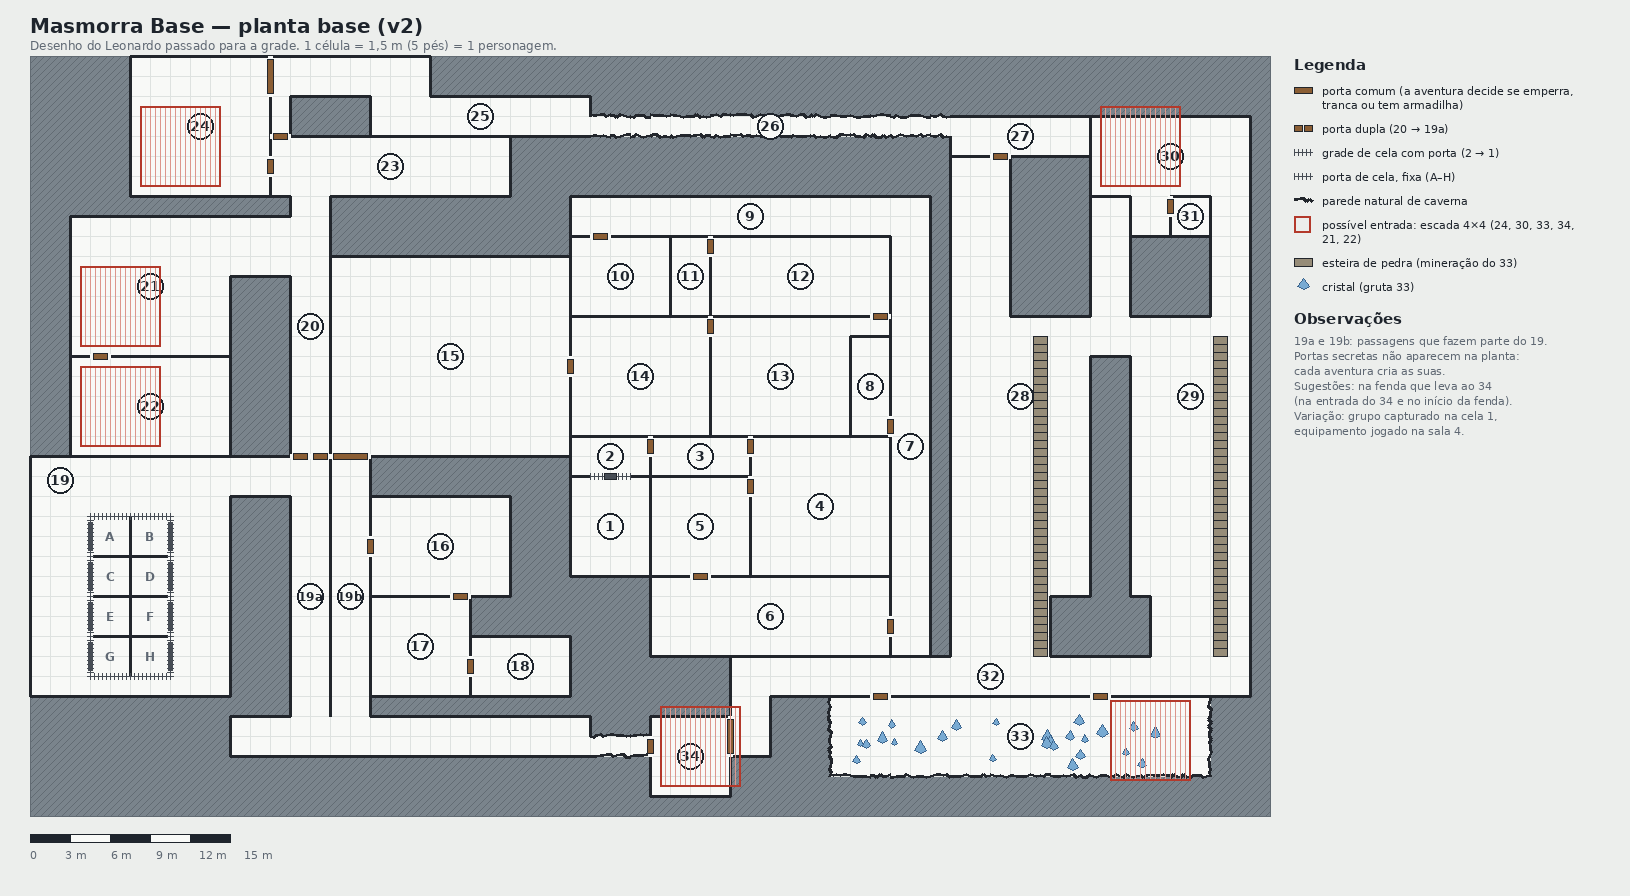
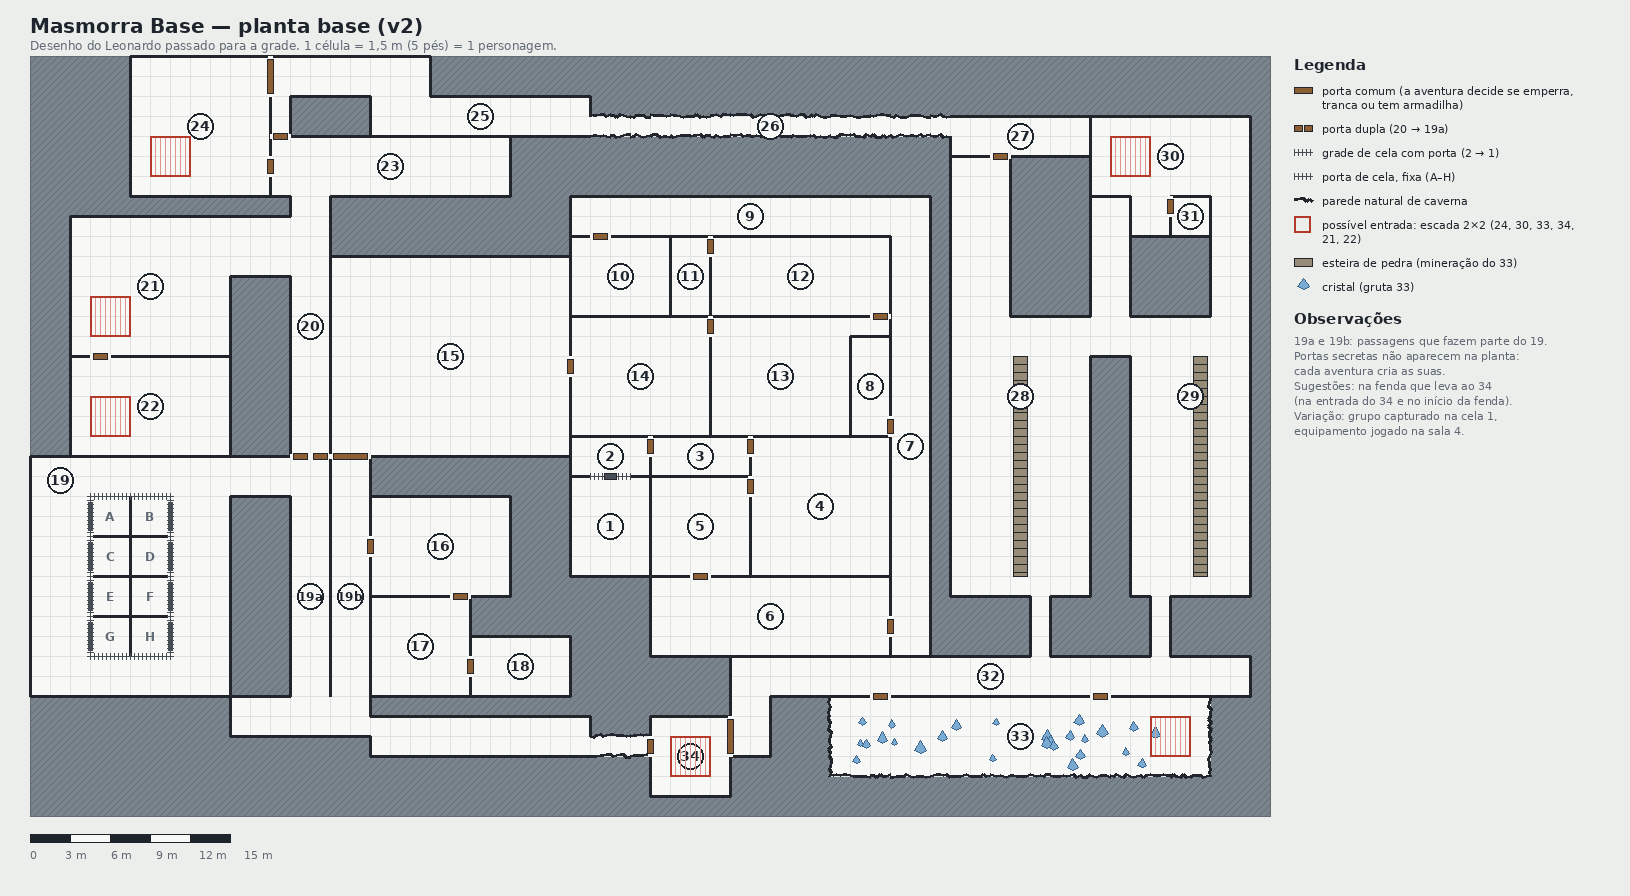
fix(planta): escada 2x2, saliências em L nos acessos 28/29→32, quebra no 19a, celas 1 acima

diff --git a/tools/desenhar_planta.py b/tools/desenhar_planta.py
@@ -194,9 +194,9 @@ def main():
     for aid in L.get("entradas_possiveis", {}).get("areas", []):
         r = max(areas[aid]["retangulos"], key=lambda q: (q[2] - q[0]) * (q[3] - q[1]))
         cx, cy = (r[0] + r[2]) / 2, (r[1] + r[3]) / 2
-        bx, by = r[0] + 0.5, r[3] - 4.5
-        if aid == "33": bx, by = r[2] - 5, r[1] + 0.2
-        a, b = PX(bx, by); c_, e = PX(bx + 4, by + 4)
+        bx, by = r[0] + 1, r[3] - 3
+        if aid == "33": bx, by = r[2] - 3, r[1] + 1
+        a, b = PX(bx, by); c_, e = PX(bx + 2, by + 2)
         for k in range(0, int(c_ - a), 5):
             d.line([(a + k, b), (a + k, e)], fill=(220, 150, 140), width=1)
         d.rectangle([a, b, c_, e], outline=ENTRADA, width=2)
@@ -214,7 +214,7 @@ def main():
     itens = [("porta", "porta comum (a aventura decide se emperra, tranca ou tem armadilha)"),
              ("dupla", "porta dupla (20 → 19a)"), ("grade", "grade de cela com porta (2 → 1)"),
              ("cela", "porta de cela, fixa (A–H)"), ("natural", "parede natural de caverna"),
-             ("entrada", "possível entrada: escada 4×4 (24, 30, 33, 34, 21, 22)"),
+             ("entrada", "possível entrada: escada 2×2 (24, 30, 33, 34, 21, 22)"),
              ("esteira", "esteira de pedra (mineração do 33)"), ("cristal", "cristal (gruta 33)")]
     for k, txt in itens:
         a, b = lx, ly + 8
